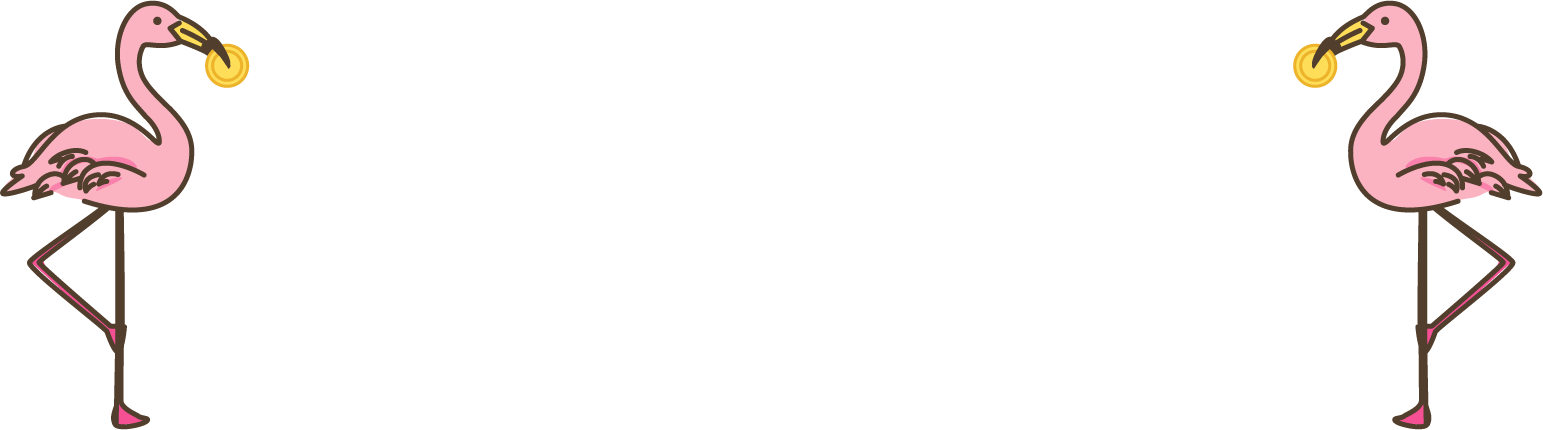
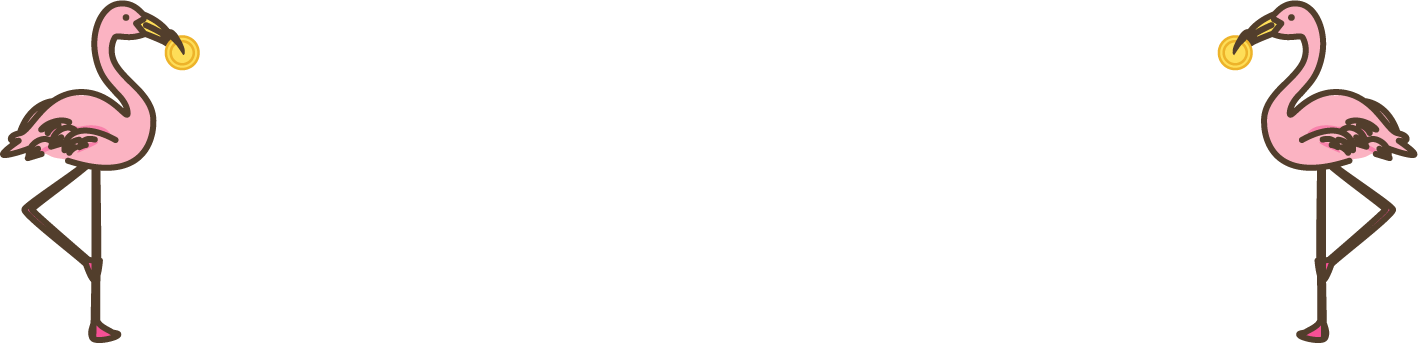
（秋田）

Changed region(s): [[0.8378, 0.0, 1.0, 1.0], [0.0, 0.0, 0.1862, 1.0]]

diff --git a/static/css/modals.css b/static/css/modals.css
@@ -55,6 +55,7 @@
   background-color: rgb(255, 255, 255);
   color: rgb(193, 179, 167);
   border: 2px solid rgb(193, 179, 167);
+  border-radius: 20% 15% 20% 10% / 39% 59% 39% 45% ;
 }
 #cancelConfirmBtn:hover {
   color: rgb(84, 62, 44);
@@ -71,6 +72,7 @@
   background-color: rgb(193, 179, 167);
   color: rgb(255, 255, 255);
   border: 2px solid rgb(193, 179, 167);
+  border-radius: 20% 15% 20% 10% / 39% 59% 39% 45% ;
 }
 #okConfirmBtn:hover {
   background-color: rgb(84, 62, 44);
@@ -213,12 +215,13 @@
   font-family: 'M PLUS Rounded 1c';
   font-size: 1.2vw;
   font-weight: 500;
-  height: 2.6vw;
+  height: 2.4vw;
   width: 5.5vw;
   border-radius: 8px;
   background-color: rgb(193, 179, 167);
   color: rgb(255, 255, 255);
   border: 2px solid rgb(193, 179, 167);
+  border-radius: 20% 15% 20% 10% / 39% 59% 39% 45% ;
 }
 #doneOkBtn:hover {
   background-color: rgb(84, 62, 44);
@@ -265,11 +268,12 @@
   font-size: 1.1vw;
   font-weight: 500;
   height: 2.6vw;
-  width: 7.5vw;
+  width: 7.8vw;
   border-radius: 8px;
   background-color: rgb(255, 255, 255);
   color: rgb(22, 137, 56);
   border: 2px solid rgb(22, 137, 56);
+  border-radius: 20% 15% 20% 10% / 39% 59% 39% 45% ;
 }
 #authCancelBtn:hover {
   color: rgb(109, 241, 44);
@@ -279,10 +283,11 @@
 #modals_auth_new_button {
   background-color: rgb(22, 137, 56);
   color: #fff;
-  padding: 0.4vw 1vw 0.4vw 1vw;
+  padding: 0.4vw 1.3vw 0.4vw 1.3vw;
   border-radius: 7px;
   text-decoration: none;
   font-weight: 700;
+  border-radius: 20% 15% 20% 10% / 39% 59% 39% 45% ;
 }
 #modals_auth_new_button:hover {
   background-color: rgb(89, 197, 35);
@@ -291,10 +296,11 @@
 #modals_auth_login_button {
   background-color: rgb(22, 137, 56);
   color: #fff;
-  padding: 0.4vw 1vw 0.4vw 1vw;
+  padding: 0.4vw 1.3vw 0.4vw 1.3vw;
   border-radius: 7px;
   text-decoration: none;
   font-weight: 700;
+  border-radius: 20% 15% 20% 10% / 39% 59% 39% 45% ;
 }
 #modals_auth_login_button:hover {
   background-color: rgb(89, 197, 35);

diff --git a/money/templates/money/purchase_history2.html b/money/templates/money/purchase_history2.html
@@ -16,8 +16,7 @@
     <div id="purchase_history2_small_box">
 
       <div id="purchase_history2_small_box_lang">
-
-         {% if messages %}
+          {% if messages %}
             <div class="page-messages">
               {% for message in messages %}
                 <div class="alert alert-{{ message.tags }}">
@@ -43,7 +42,7 @@
           {% for s in stanning_purchases %}
           <tr>
             <td class="purchase_history2_table_num">{{ s.plan.plan_name }}</td>
-            <td class="purchase_history2_table_num">{{ s.animal.japanese }}
+            <td id="purchase_history2_table_num_03">{{ s.animal.name }}
               <span class="purchase_history2_table_unit">{% if a.sex == "M" %} くん{% elif a.sex == "F" %} ちゃん{% else %} さん{% endif %}</span>
             </td>  
             <td class="purchase_history2_table_num">{{ s.plan.st_point }} <span class="purchase_history2_table_unit">スタポ</span></td>
@@ -54,7 +53,8 @@
                   {% if s.is_active %}
                       <form action="{% url 'subscription:cancel_subscription' s.sub_member_id %}" method="post" style="display:inline" class="cancel-form">
                         {% csrf_token %}
-                        <button id="purchase_history2_table_button" type="submit" onclick="return confirm('本当に解約してよろしいですか？');">解約する</button>
+                        <button id="purchase_history2_table_button" type="submit" 
+                        onclick="return confirm('{{ s.animal.name }}{% if a.sex == "M" %} くん{% elif a.sex == "F" %} ちゃん{% else %} さん{% endif %}の{{ s.plan.plan_name }}プランを解約しますか？');">解約する</button>
                       </form>
                   {% else %}
                       <span id="purchase_history2_table_canceled">解約済</span>

diff --git a/static/css/purchase_history2.css b/static/css/purchase_history2.css
@@ -40,7 +40,7 @@
 
 /* テーブル外周り */
 #purchase_history2_table {
-  width: 70vw;
+  width: 66vw;
   border-collapse: collapse;
   border-spacing: 0;
 }
@@ -58,47 +58,58 @@
   border-bottom: solid 1px rgb(182, 170, 161);
   padding-right: 2vw;
 }
+#purchase_history2_table_num_03 {
+  padding: 0.7vw;
+  border-bottom: solid 1px rgb(182, 170, 161);
+}
 
 
 
 /* 項目の文字 */
 .purchase_history2_table_text {
   font-weight: 700;
-  font-size: 1.2vw;
+  font-size: 1.1vw;
   padding-left: 2vw;
 }
 
 /* 各数字 */
 .purchase_history2_table_num {
   font-weight: 500;
-  font-size: 1.3vw;
+  font-size: 1.2vw;
   padding-left: 2vw;
 }
 #purchase_history2_table_num_02 {
   font-weight: 500;
   font-size: 1.3vw;
   padding-left: 2vw;
+  width: 6vw;
+}
+#purchase_history2_table_num_03 {
+  font-weight: 500;
+  font-size: 1.1vw;
+  padding-left: 2vw;
+  width: 11vw;
+  line-height: 1.3em;
 }
 .purchase_history2_table_day {
-  font-size: 1.1vw;
-  padding-left: 0.1vw;
+  font-size: 1vw;
 }
 
 /* 解約済の文字 */
 #purchase_history2_table_canceled {
-  font-size: 1.3vw;
+  font-size: 1.15vw;
   padding-right: 2vw;
 }
 
 /* 各単位 */
 .purchase_history2_table_unit {
   font-weight: 400;
-  font-size: 1vw;
+  font-size: 0.8vw;
 }
 
 /* 解約するボタン */
 #purchase_history2_table_button {
-  width: 6.5vw;
+  width: 6vw;
   height: 2.2vw;
   border-radius: 20% 15% 20% 10% / 39% 59% 39% 45% ;
   color: rgb(255, 255, 255);
@@ -139,4 +150,16 @@
 #purchase_history2_returntop_button {
   text-decoration: none;
   font-size: 14pt;
+}
+
+
+
+.alert {
+  margin: 0 0 4vw 0;
+  text-align: center;
+  font-size: 1.5vw;
+  font-weight: 700;
+}
+.alert-success { 
+  color: #c0392b; 
 }

diff --git a/goods/templates/goods/order_history.html b/goods/templates/goods/order_history.html
@@ -85,7 +85,17 @@
               {% if order.status == 'pending' %}
                 <form action="{% url 'goods:cancel_order' order.id %}" method="post">
                   {% csrf_token %}
-                  <button id="order_history_cancell_button" type="button" onclick="confirmCancel(this.form);">キャンセルする</button>
+                  <button id="order_history_cancell_button" type="button" 
+                  onclick="confirmCancel(this.form);">キャンセルする</button>
+
+                  <script>
+                    function confirmCancel(form) {
+                        if (confirm("注文ID {{ order.id }} の注文をキャンセルしてもよろしいですか？")) {
+                          form.submit();
+                        }
+                      }
+                  </script>
+
                 </form>
               {% else %}
               {% endif %}
@@ -119,16 +129,13 @@
 
 
 
-
-
-
-<script>
+<!-- <script>
   function confirmCancel(form) {
-    if (confirm("この注文をキャンセルします。よろしいですか？")) {
+    if (confirm("{{ order.id }}この注文をキャンセルします。よろしいですか？")) {
       form.submit();
     }
   }
-</script>
+</script> -->
 
 <style>
 

diff --git a/static/css/charge.css b/static/css/charge.css
@@ -17,8 +17,8 @@
   font-size: 3.5vw;
 }
 #charge_title_img_01 {
-  width: 70%;
-  margin-top: -11vw;
+  width: 54%;
+  margin: -20vw 0 1.5vw -0.3vw;
 }
 
 /* チアコインを購入する小箱 */
@@ -46,7 +46,7 @@
 /* アカウントネーム */
 #charge_accountname {
   text-align: center;
-  margin-top: -3vw;
+  margin-top: -2vw;
   font-weight: 500;
   font-size: 1.2vw;
   color: rgb(15, 88, 37);
@@ -70,7 +70,7 @@
 
 /* テーブル外周り */
 #charge_table {
-  width: 33vw;
+  width: 35vw;
   border-collapse: collapse;
   border-spacing: 0;
 }
@@ -87,7 +87,7 @@
 /* 項目の文字 */
 .charge_table_text {
   font-weight: 500;
-  font-size: 1.5vw;
+  font-size: 1.3vw;
   padding-left: 2vw;
   padding-right: 2vw;
 }
@@ -95,7 +95,7 @@
 /* 各数字 */
 .charge_table_num {
   font-weight: 900;
-  font-size: 1.6vw;
+  font-size: 1.9vw;
   padding-left: 2vw;
   padding-right: 2vw;
 }
@@ -118,7 +118,7 @@
 #charge_button {
   width: 100%;
   padding: 0 1vw 0 1vw;
-  height: 2.3vw;
+  height: 2.2vw;
   font-family: 'M PLUS Rounded 1c';
   border-radius: 20% 15% 20% 10% / 39% 59% 39% 45% ;
   color: rgb(255, 255, 255);

diff --git a/money/templates/money/modals.html b/money/templates/money/modals.html
@@ -76,7 +76,7 @@
     <img id="modals_done_thanks_img" src="{% static 'img/done_thankyou.png' %}" alt="アシカありがとう画像">
     
     <div id="modals_done_button_box">
-      <button id="doneOkBtn" type="button">OK</button>
+      <button id="doneOkBtn" type="button">O K</button>
     </div>
 
   </div>

diff --git a/static/css/order_history.css b/static/css/order_history.css
@@ -129,7 +129,7 @@
   font-size: 1vw;
 }
 #order_history_table_notyet {
-    color: #c0392b;
+  color: #c0392b;
 }
 
 /* 各単位 */

diff --git a/goods/views_user.py b/goods/views_user.py
@@ -44,7 +44,7 @@ def cancel_order(request, order_id):
         order.status = 'cancelled'
         order.save()
 
-        messages.success(request, "　注文をキャンセルしました。スタポを返却しました。")
+        messages.success(request, f"注文ID {order.id} の注文をキャンセルしました。スタポを返却しました。")
 
     else:
         messages.warning(request, "　発送済みまたはキャンセル済みの注文はキャンセルできません。")

diff --git a/subscription/views.py b/subscription/views.py
@@ -154,7 +154,7 @@ def cancel_subscription(request, sub_member_id):
         sub.save(update_fields=["is_active"])
 
         # ★ これを追加
-        messages.success(request, "サブスクが解約されました。")
+        messages.success(request, " 〇〇さんの〜プランのサブスクが解約されました。")
 
         # 履歴ページに戻す
         return redirect("money:purchase_history2")
